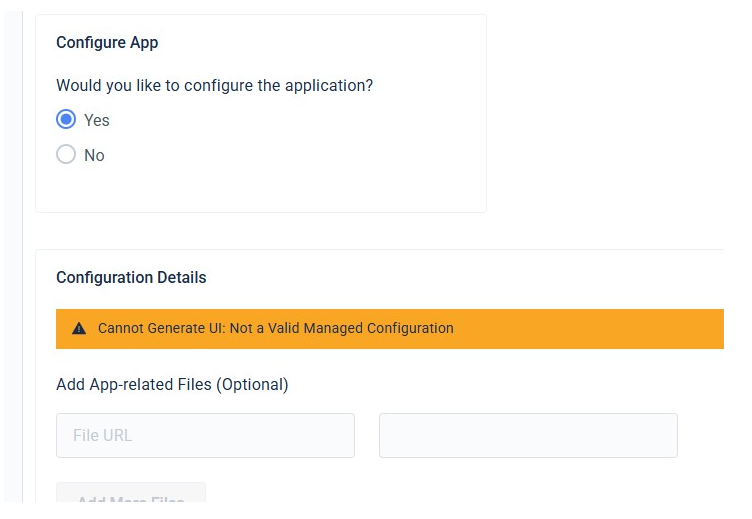
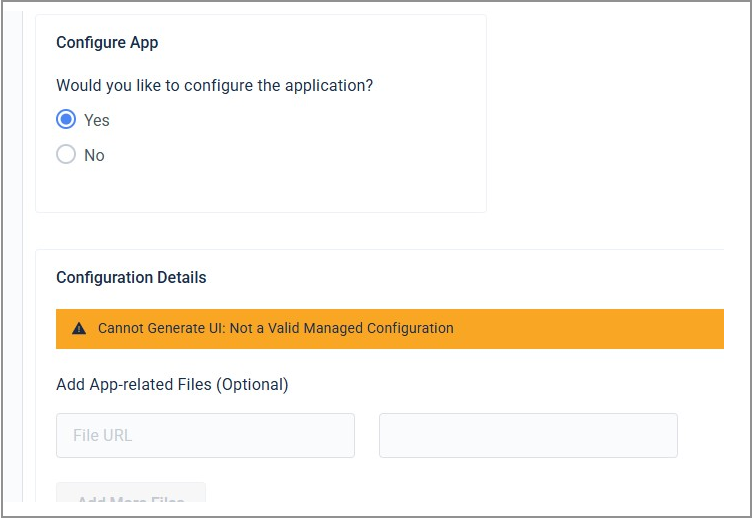
[TUT-107777; DLM-50116] ZDNA 5.3 updates, per eng

Changed region(s): [[0.0, 0.0, 1.0, 1.0]]

diff --git a/zebradna/5-3/faq/index.html b/zebradna/5-3/faq/index.html
@@ -259,33 +259,6 @@
 
 -->
 
-<!-- 
-FROM: SPR-56358
-Per AA on pre-RRR call 4/11/25, add to FAQ
-
-### Q: Why does the managed configuration in my app generate an error like the one below?
-
-<img alt="image" style="height:250px" src="53_restriction_notSupported.png"/> 
-_Click image to enlarge; ESC to exit._
-<br>
-
-**A: The cause for this error could be an unsupported character in the app restriction XML node**. A fix is currently under development by Zebra engineers. In the meantime, a developer can change the dashes in the android:key section to underscores as shown below. 
-
-  :::XML
-  <restriction
-          android:entries="@ref/0x7f010003"
-          android:title="Protocol"
-          android:key="ss-network-configProtocol"
-          android:defaultValue="@ref/0x7f0d0024"
-          android:entryValues="@ref/0x7f010007"
-          android:restrictionType="2" /> 
-
-CHANGE: `android:key="ss-network-configProtocol"`
-
-TO: `android:key="ss_network_configProtocol"`
-
--->
-
 <p></p><h2 id="commonquestionsandknownissues" class="anchor"><a class="heading-anchor" href="#commonquestionsandknownissues"><span></span></a>Common Questions and Known Issues</h2>
 
 <p>This section contains frequently asked questions and known issues of current and previous releases. </p>
@@ -310,8 +283,6 @@ TO: `android:key="ss_network_configProtocol"`
 
  -->
 
-<hr>
-
 <h2 id="appdeployment" class="anchor"><a class="heading-anchor" href="#appdeployment"><span></span></a>App Deployment</h2>
 
 <h3 id="qwhydoesthemanagedconfigurationinmyappgenerateanerrorliketheonebelow" class="anchor"><a class="heading-anchor" href="#qwhydoesthemanagedconfigurationinmyappgenerateanerrorliketheonebelow"><span></span></a>Q: Why does the managed configuration in my app generate an error like the one below?</h3>
@@ -320,7 +291,7 @@ TO: `android:key="ss_network_configProtocol"`
 <em>Click image to enlarge; ESC to exit.</em>
 <br></p>
 
-<p><strong>A: The cause for this error could be an unsupported character in the app restriction XML node</strong>. A fix is currently under development by Zebra engineers. As a workaround in the meantime, a developer can <strong><em>change the dashes to underscores</em></strong> in the <code>android:key</code> section, as shown below. </p>
+<p><strong>A: This error might be caused by an unsupported character in the app restriction XML node</strong> . A fix for that issue is currently under development by Zebra engineers. As a workaround in the meantime, a developer can <strong><em>change the dashes to underscores</em></strong> in the <code>android:key</code> section, as shown in the "Workaround" below. </p>
 
 <h4 id="unsupportedrestrictionxml" class="anchor"><a class="heading-anchor" href="#unsupportedrestrictionxml"><span></span></a>Unsupported Restriction XML</h4>
 

diff --git a/zebradna/latest/faq/index.html b/zebradna/latest/faq/index.html
@@ -259,33 +259,6 @@
 
 -->
 
-<!-- 
-FROM: SPR-56358
-Per AA on pre-RRR call 4/11/25, add to FAQ
-
-### Q: Why does the managed configuration in my app generate an error like the one below?
-
-<img alt="image" style="height:250px" src="53_restriction_notSupported.png"/> 
-_Click image to enlarge; ESC to exit._
-<br>
-
-**A: The cause for this error could be an unsupported character in the app restriction XML node**. A fix is currently under development by Zebra engineers. In the meantime, a developer can change the dashes in the android:key section to underscores as shown below. 
-
-  :::XML
-  <restriction
-          android:entries="@ref/0x7f010003"
-          android:title="Protocol"
-          android:key="ss-network-configProtocol"
-          android:defaultValue="@ref/0x7f0d0024"
-          android:entryValues="@ref/0x7f010007"
-          android:restrictionType="2" /> 
-
-CHANGE: `android:key="ss-network-configProtocol"`
-
-TO: `android:key="ss_network_configProtocol"`
-
--->
-
 <p></p><h2 id="commonquestionsandknownissues" class="anchor"><a class="heading-anchor" href="#commonquestionsandknownissues"><span></span></a>Common Questions and Known Issues</h2>
 
 <p>This section contains frequently asked questions and known issues of current and previous releases. </p>
@@ -310,8 +283,6 @@ TO: `android:key="ss_network_configProtocol"`
 
  -->
 
-<hr>
-
 <h2 id="appdeployment" class="anchor"><a class="heading-anchor" href="#appdeployment"><span></span></a>App Deployment</h2>
 
 <h3 id="qwhydoesthemanagedconfigurationinmyappgenerateanerrorliketheonebelow" class="anchor"><a class="heading-anchor" href="#qwhydoesthemanagedconfigurationinmyappgenerateanerrorliketheonebelow"><span></span></a>Q: Why does the managed configuration in my app generate an error like the one below?</h3>
@@ -320,7 +291,7 @@ TO: `android:key="ss_network_configProtocol"`
 <em>Click image to enlarge; ESC to exit.</em>
 <br></p>
 
-<p><strong>A: The cause for this error could be an unsupported character in the app restriction XML node</strong>. A fix is currently under development by Zebra engineers. As a workaround in the meantime, a developer can <strong><em>change the dashes to underscores</em></strong> in the <code>android:key</code> section, as shown below. </p>
+<p><strong>A: This error might be caused by an unsupported character in the app restriction XML node</strong> . A fix for that issue is currently under development by Zebra engineers. As a workaround in the meantime, a developer can <strong><em>change the dashes to underscores</em></strong> in the <code>android:key</code> section, as shown in the "Workaround" below. </p>
 
 <h4 id="unsupportedrestrictionxml" class="anchor"><a class="heading-anchor" href="#unsupportedrestrictionxml"><span></span></a>Unsupported Restriction XML</h4>
 
